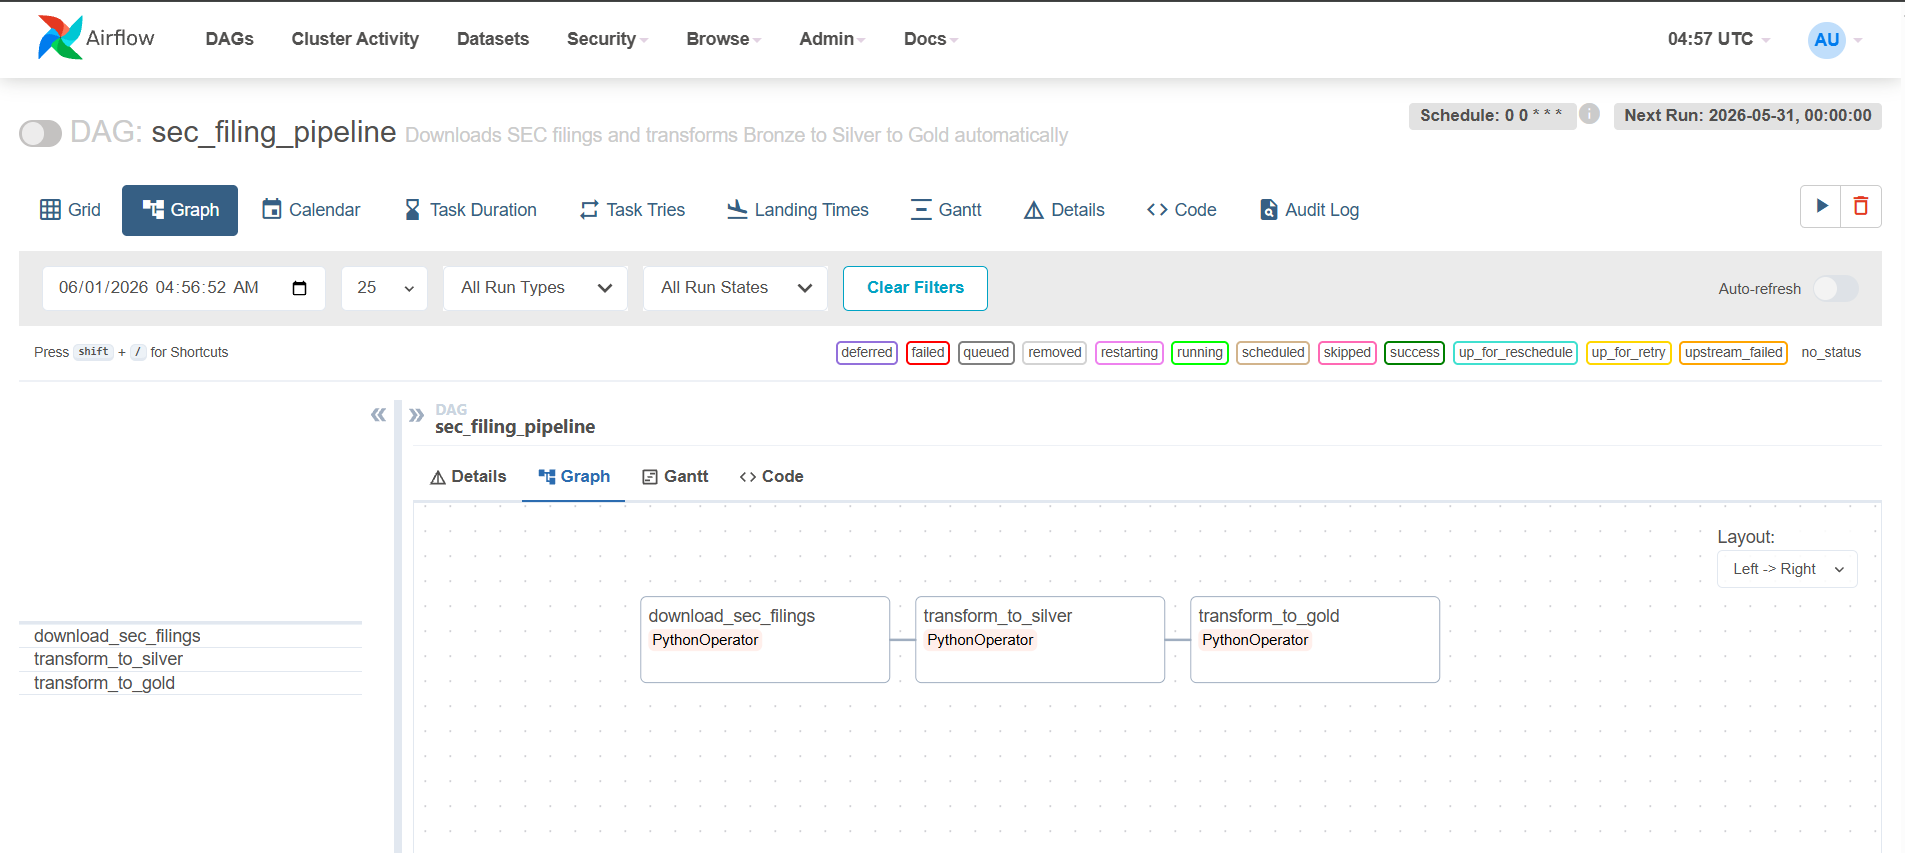
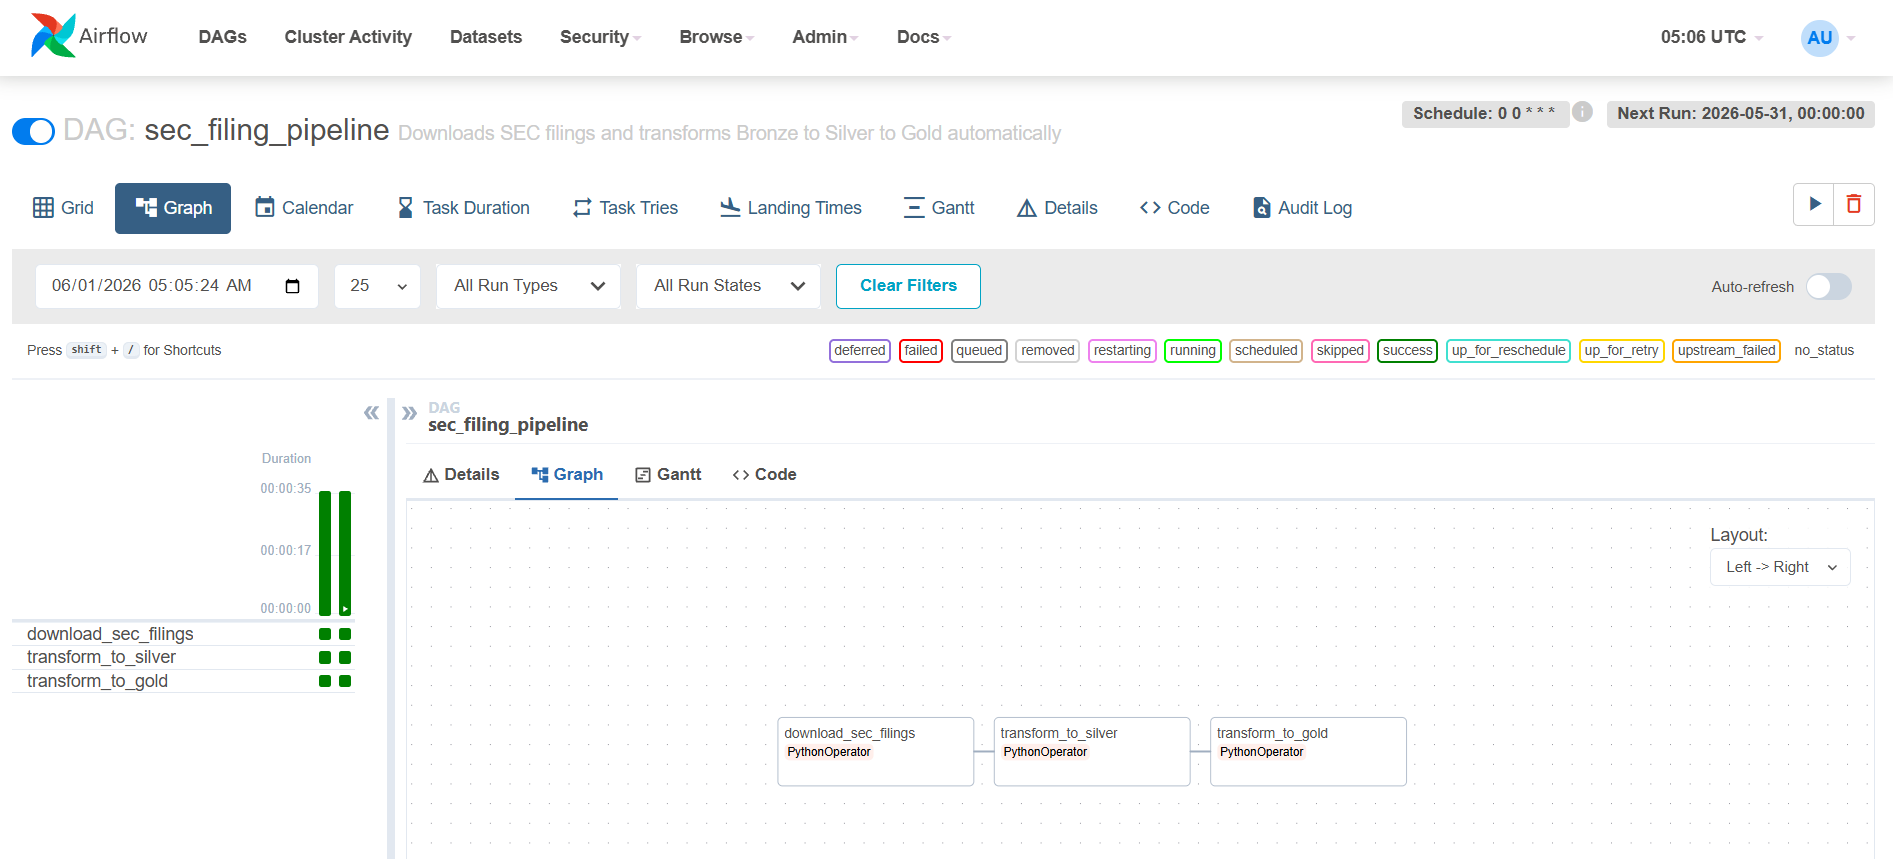
Final done

diff --git a/README.md b/README.md
@@ -1,4 +1,4 @@
-# Financial Intelligence Platform
+# 🏦 Financial Intelligence Platform
 
 > An automated end-to-end data engineering pipeline that collects, transforms and visualizes financial data for 20 Fortune 500 companies using Apache Airflow, AWS S3, Python, Pandas, boto3, Docker and Power BI.
 
@@ -15,10 +15,17 @@
 ![Architecture](dashboard/architecture_diagram.png)
 
 ---
-## ⚙ Pipeline in Action
 
-### Airflow DAG — 3 Tasks Running Automatically
+## Pipeline in Action
+
+### Airflow DAG — 3 Tasks Connected Automatically
 ![Airflow DAG](dashboard/airflow_dag.png)
+
+### Airflow — All 3 Tasks Completed Successfully
+![Airflow Success](dashboard/airflow_success.png)
+
+### Docker — All Containers Running
+![Docker Containers](dashboard/docker_containers.png)
 
 ---
 
@@ -46,7 +53,7 @@ Power BI reads the Gold layer and shows interactive charts. Click Refresh for la
 
 ---
 
-## Tech Stack
+## 🛠 Tech Stack
 
 | Tool | Purpose |
 |------|---------|
@@ -62,13 +69,13 @@ Power BI reads the Gold layer and shows interactive charts. Click Refresh for la
 
 ---
 
-## Companies Tracked
+## 🏢 Companies Tracked
 
-Apple · Microsoft · Google · Amazon · Tesla · META · NVIDIA · JP Morgan · Walmart · Jhonson & Johnson · Goldman Sachs · Ford · General Motors · Pfizer · Target · NEFLIX · Alibaba · Disney · UBER · PayPal
+Apple · Microsoft · Google · Amazon · Tesla · META · NVIDIA · JP Morgan · Walmart · Johnson & Johnson · Goldman Sachs · Ford · General Motors · Pfizer · Target · Netflix · Alibaba · Disney · Uber · PayPal
 
 ---
 
-## How to Run
+## 🚀 How to Run
 
 **1. Clone the repo**
 ```bash
@@ -100,16 +107,15 @@ docker compose up -d
 ```
 
 **6. Open Airflow**
-Enable `sec_filing_pipeline` and click ▶ to run.
 URL:      http://localhost:8080
 Username: admin
 Password: admin
 
-**7. Open Power BI**
-[View Live Interactive Dashboard](https://app.powerbi.com/view?r=eyJrIjoiM2E3NWEzYTgtNGEzMS00MDRmLWE4NDktOGQzYWJlNzkxNTVlIiwidCI6IjcwZGUxOTkyLTA3YzYtNDgwZi1hMzE4LWExYWZjYmEwMzk4MyIsImMiOjN9)
+Enable `sec_filing_pipeline` and click ▶ to run.
 
-Or download locally:
-Open `dashboard/financial_dashboard.pbix` → Click Refresh → Data
+**7. View Dashboard**
+
+[View Live Interactive Dashboard](https://app.powerbi.com/view?r=eyJrIjoiM2E3NWEzYTgtNGEzMS00MDRmLWE4NDktOGQzYWJlNzkxNTVlIiwidCI6IjcwZGUxOTkyLTA3YzYtNDgwZi1hMzE4LWExYWZjYmEwMzk4MyIsImMiOjN9)
 
 ---
 
@@ -140,7 +146,7 @@ Open `dashboard/financial_dashboard.pbix` → Click Refresh → Data
 ## Author
 
 **Prakash Karunanithi**
-- [LinkedIn](https://www.linkedin.com/in/prakash-karunanithi-076965244/)
-- [GitHub](https://github.com/karuprak)
+- 💼 [LinkedIn](https://www.linkedin.com/in/prakash-karunanithi-076965244/)
+- 🐙 [GitHub](https://github.com/karuprak)
 
 ---
